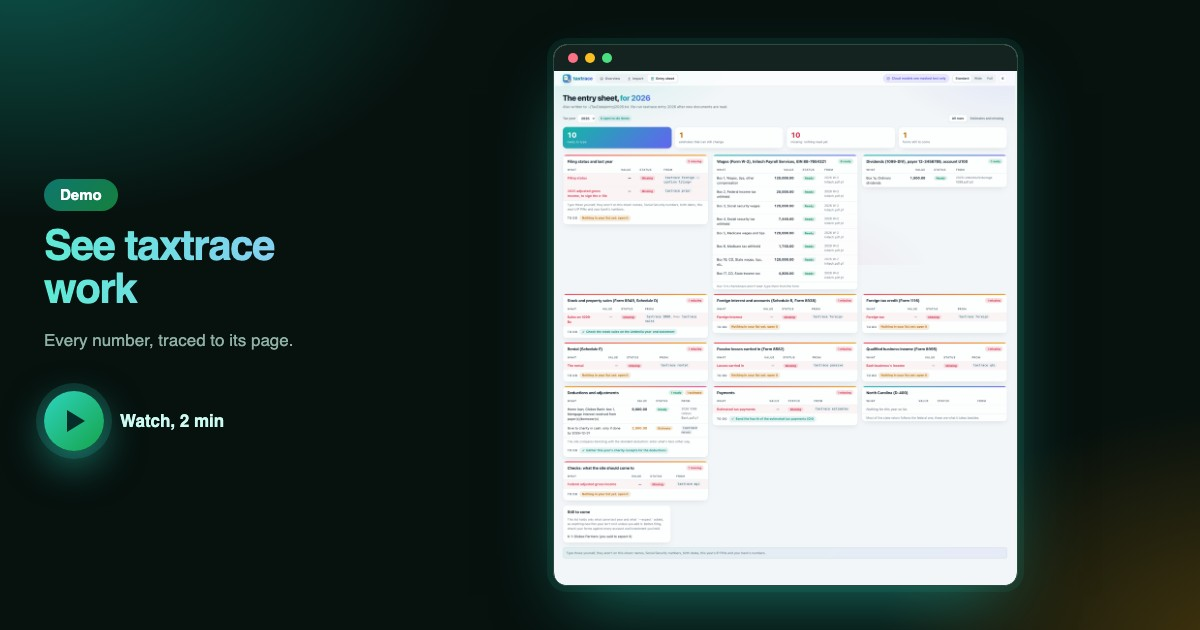
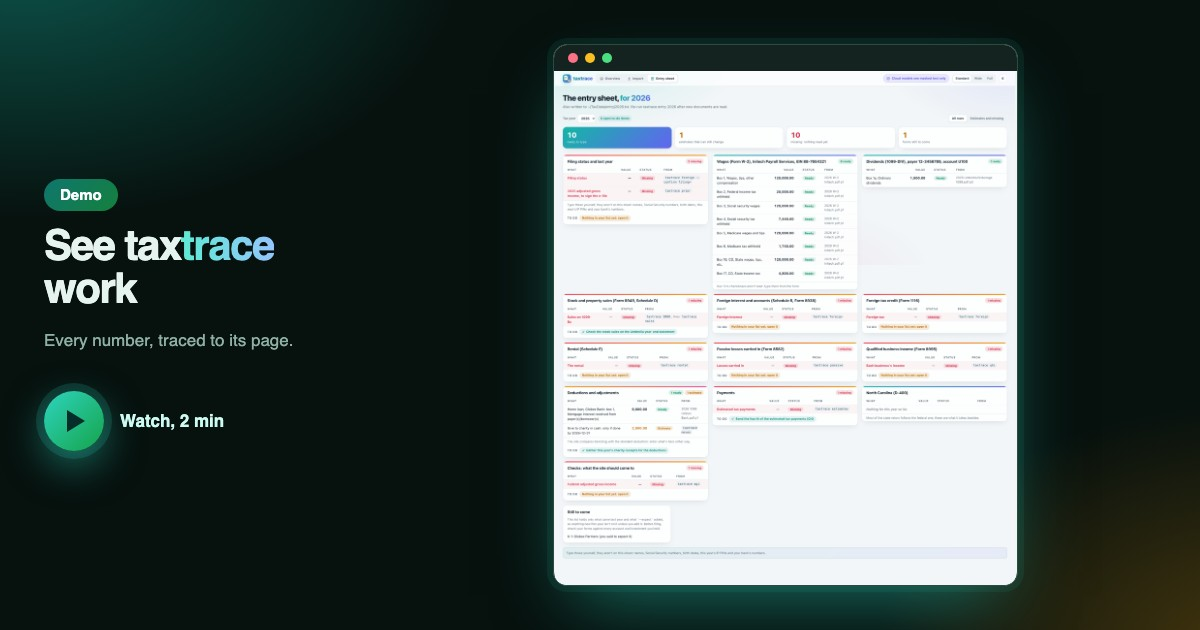
Site: tax in the text color and trace in the gradient (hero, nav brand, demo poster and link preview), read as one word

Changed region(s): [[0.0308, 0.3619, 0.1542, 0.4825]]

diff --git a/site/index.html b/site/index.html
@@ -229,7 +229,7 @@ footer p { margin: 6px auto 0; max-width: 620px; }
 <body>
 <header>
   <div class="wrap bar">
-    <a class="brand" href="#top"><img src="icon.svg" alt=""><b>taxtrace</b></a>
+    <a class="brand" href="#top"><img src="icon.svg" alt=""><span aria-label="taxtrace" role="img">tax<b>trace</b></span></a>
     <div class="settings">
       <button class="gear" id="gear" type="button" aria-label="Display settings" aria-expanded="false" aria-controls="pop"><svg viewBox="0 0 24 24" width="20" height="20" fill="none" stroke="currentColor" stroke-width="2" stroke-linecap="round" stroke-linejoin="round" aria-hidden="true"><circle cx="12" cy="12" r="3"/><path d="M19.4 15a1.65 1.65 0 0 0 .33 1.82l.06.06a2 2 0 1 1-2.83 2.83l-.06-.06a1.65 1.65 0 0 0-1.82-.33 1.65 1.65 0 0 0-1 1.51V21a2 2 0 1 1-4 0v-.09a1.65 1.65 0 0 0-1-1.51 1.65 1.65 0 0 0-1.82.33l-.06.06a2 2 0 1 1-2.83-2.83l.06-.06a1.65 1.65 0 0 0 .33-1.82 1.65 1.65 0 0 0-1.51-1H3a2 2 0 1 1 0-4h.09a1.65 1.65 0 0 0 1.51-1 1.65 1.65 0 0 0-.33-1.82l-.06-.06a2 2 0 1 1 2.83-2.83l.06.06a1.65 1.65 0 0 0 1.82.33h0a1.65 1.65 0 0 0 1-1.51V3a2 2 0 1 1 4 0v.09a1.65 1.65 0 0 0 1 1.51h0a1.65 1.65 0 0 0 1.82-.33l.06-.06a2 2 0 1 1 2.83 2.83l-.06.06a1.65 1.65 0 0 0-.33 1.82v0a1.65 1.65 0 0 0 1.51 1H21a2 2 0 1 1 0 4h-.09a1.65 1.65 0 0 0-1.51 1z"/></svg></button>
       <div class="pop" id="pop" role="group" aria-label="Display settings" hidden>
@@ -248,7 +248,7 @@ footer p { margin: 6px auto 0; max-width: 620px; }
 
 <main class="wrap" id="top">
   <div class="hero">
-    <h1 class="grad">taxtrace</h1>
+    <h1 aria-label="taxtrace">tax<span class="grad">trace</span></h1>
     <p class="tag grad">Every number on your return, traced to its page.</p>
     <p class="what">For anyone who does their own US taxes from a pile of PDFs: W-2s, 1099s, K-1s (partnership income statements), a rental, a foreign bank account. taxtrace reads them on your own computer and builds the sheet you type into your tax software, with the file, page and exact text behind every value. It never files anything and never guesses: what it can't settle becomes a question for you. Free and open source.</p>
     <div class="uv" id="uv">

diff --git a/scripts/videos/posters.py b/scripts/videos/posters.py
@@ -56,6 +56,8 @@ body { margin: 0; width: %(w)dpx; height: %(h)dpx; overflow: hidden; display: fl
 h1 { margin: 0; font-size: %(big)dpx; line-height: 1.04; letter-spacing: -.035em; font-weight: 850; text-wrap: balance;
   background: linear-gradient(90deg, #5eead4, #93c5fd); -webkit-background-clip: text; color: transparent;
   padding-bottom: .06em; }
+h1.name { background: none; color: #e6f4ef; }
+h1 .g { background: linear-gradient(90deg, #5eead4, #93c5fd); -webkit-background-clip: text; color: transparent; }
 .tag { margin: %(gap_s)dpx 0 %(gap)dpx; font-size: %(sub)dpx; color: #8fb0a6; }
 .play { display: flex; align-items: center; gap: 16px; font-size: %(sub)dpx; font-weight: 700; color: #ccfbf1; }
 .play i { width: %(btn)dpx; height: %(btn)dpx; border-radius: 50%%; display: grid; place-items: center;
@@ -89,8 +91,13 @@ def poster_page(p: Poster, shot: Path, w: int, h: int) -> str:
     scale = min(area_w / img_w, with_bar / img_h)
     css = CSS % dict(w=w, h=h, pad=pad, gap=gap, gap_s=14, left=left, chip=15, big=42 if og else 48,
                      sub=17 if og else 19, btn=60 if og else 68, tri=11 if og else 13, tri2=18 if og else 21, bar=bar)
+    title = escape(p.title)
+    # a title that names taxtrace shows the wordmark: "tax" in the text color, "trace" in the gradient
+    wordmark = 'tax<span class="g">trace</span>'
+    h1 = (f'<h1 class="name">{title.replace("taxtrace", wordmark)}</h1>'
+          if "taxtrace" in title else f"<h1>{title}</h1>")
     return (f'<!doctype html><meta charset="utf-8"><style>{css}</style>'
-            f'<div class="l"><span class="chip">{escape(p.label)}</span><h1>{escape(p.title)}</h1>'
+            f'<div class="l"><span class="chip">{escape(p.label)}</span>{h1}'
             f'<div class="tag">Every number, traced to its page.</div>'
             f'<div class="play"><i></i><span>Watch, {escape(p.length)}</span></div></div>'
             f'<div class="win"><div class="frame"><div class="bar"><b></b><b></b><b></b></div>'

diff --git a/tests/test_site.py b/tests/test_site.py
@@ -202,6 +202,32 @@ def test_the_problem_is_plain_old_way_lines_not_cards_and_the_overview_follows()
     assert "sends nothing home" not in PAGE + README
 
 
+def test_the_name_is_tax_in_the_text_color_and_trace_in_the_gradient_read_as_one_word():
+    hero = PAGE.split('<div class="hero">')[1].split('<div class="cta">')[0]
+    assert '<h1 aria-label="taxtrace">tax<span class="grad">trace</span></h1>' in hero
+    assert '<span aria-label="taxtrace" role="img">tax<b>trace</b></span>' in PAGE
+    assert '<h1 class="grad">' not in PAGE and "<b>taxtrace</b>" not in PAGE
+    # "tax" takes the page's text color (never a literal white); "trace" the --name-grad of each theme
+    assert "color: var(--text)" in re.search(r"\.brand \{.*?\}", PAGE, re.S).group(0)
+    assert re.search(r"\.brand b, \.grad \{ background: var\(--name-grad\)", PAGE)
+    assert not re.search(r"\.hero h1\s*\{[^}]*color:\s*#(?:fff|ffffff)", PAGE, re.I)
+    import importlib.util
+    spec = importlib.util.spec_from_file_location("site_shots", ROOT / "scripts" / "site_shots.py")
+    shots = importlib.util.module_from_spec(spec)
+    spec.loader.exec_module(shots)
+
+    def rgb(h):
+        return tuple(int(h[i:i + 2], 16) for i in (1, 3, 5))
+
+    for theme, block in (("light", PAGE.split(":root {")[1].split("}")[0]),
+                         ("dark", PAGE.split(':root[data-theme="dark"] {')[1].split("}")[0])):
+        bg = rgb(re.search(r"--bg: (#\w{6})", block).group(1))
+        stops = re.findall(r"#[0-9a-f]{6}", re.search(r"--name-grad: ([^;]+);", block).group(1))
+        assert len(stops) == 2
+        for stop in stops:  # both ends of the gradient read against the page background (WCAG AA)
+            assert shots.contrast(rgb(stop), bg) >= 4.5, (theme, stop)
+
+
 def test_the_strip_checker_computes_wcag_contrast():
     import importlib.util
     spec = importlib.util.spec_from_file_location("site_shots", ROOT / "scripts" / "site_shots.py")

diff --git a/tests/test_videos.py b/tests/test_videos.py
@@ -170,4 +170,5 @@ def test_every_video_has_a_designed_poster_that_fits_its_screenshot_inside_the_f
         page = posters.poster_page(posters.POSTERS[0], shot, w, h)
         width, height = map(int, re.search(r'style="width:(\d+)px;height:(\d+)px"', page).groups())
         assert width <= w and height <= h - 2 * 40 - 26
-        assert "See taxtrace work" in page and 'class="play"' in page
+        assert 'See tax<span class="g">trace</span> work' in page and 'class="play"' in page
+        assert "<h1>Import your documents</h1>" in posters.poster_page(posters.POSTERS[1], shot, w, h)
